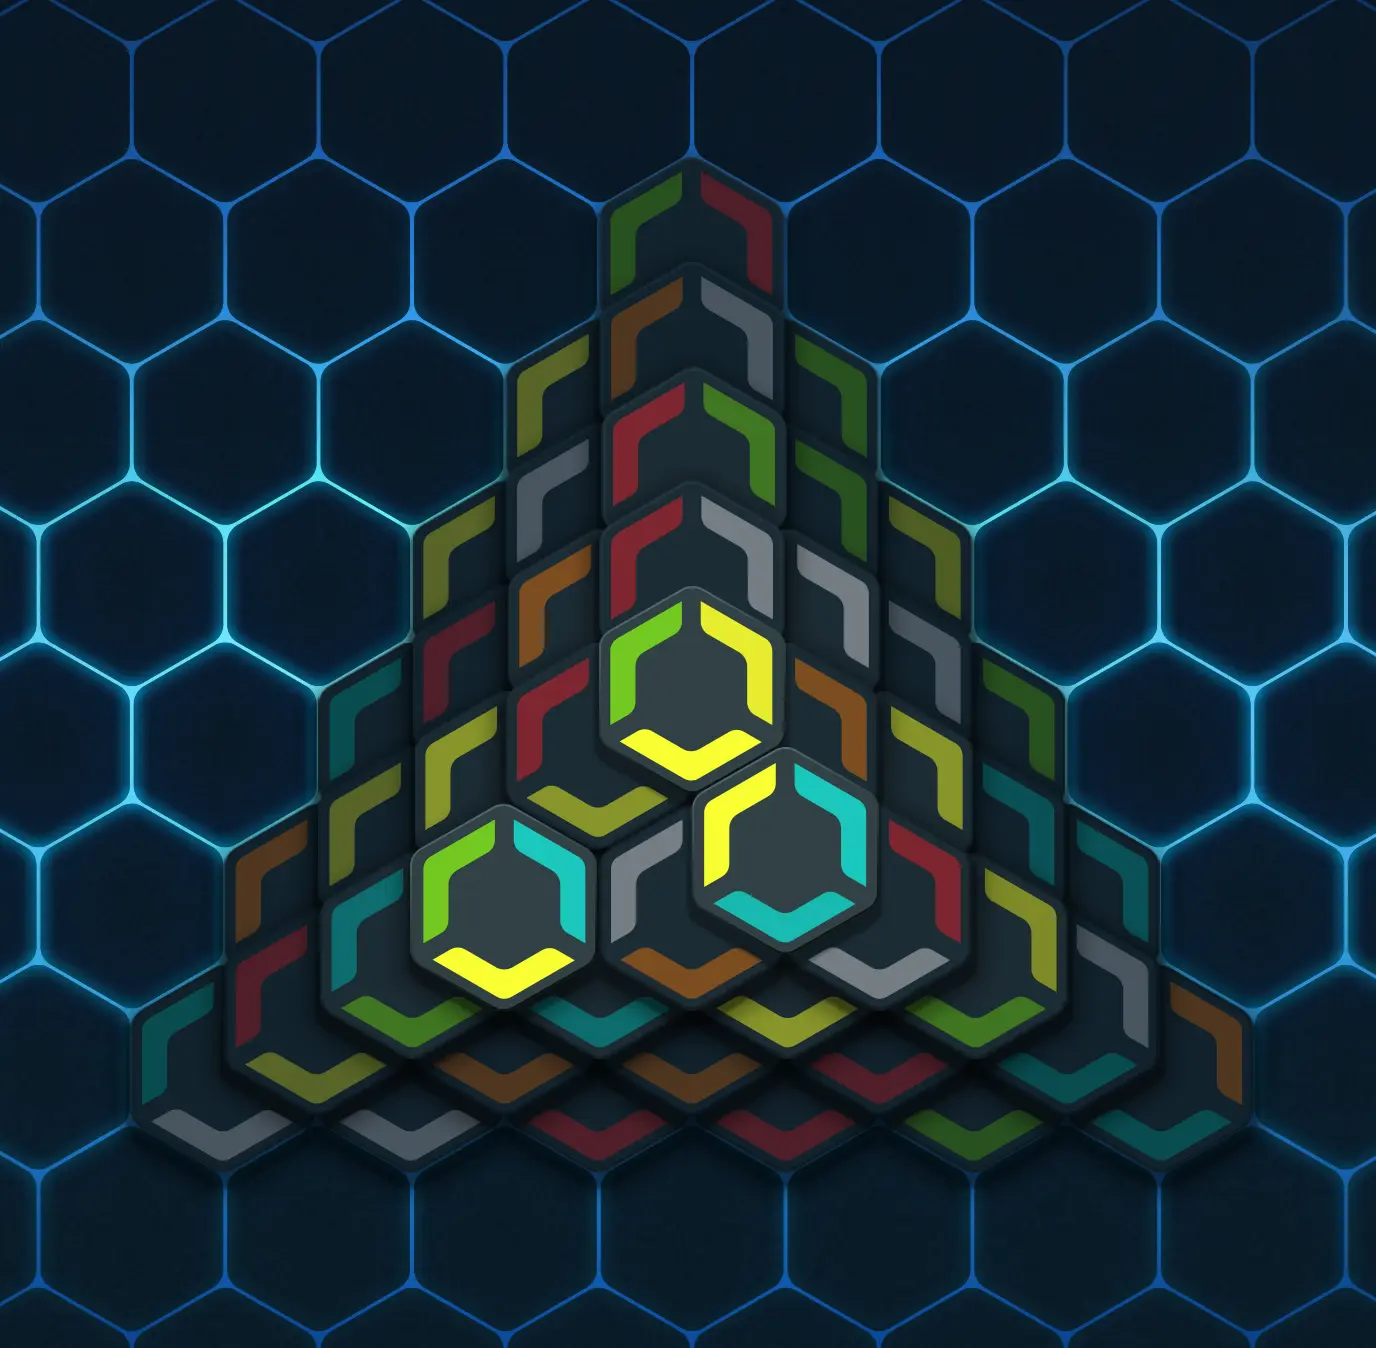
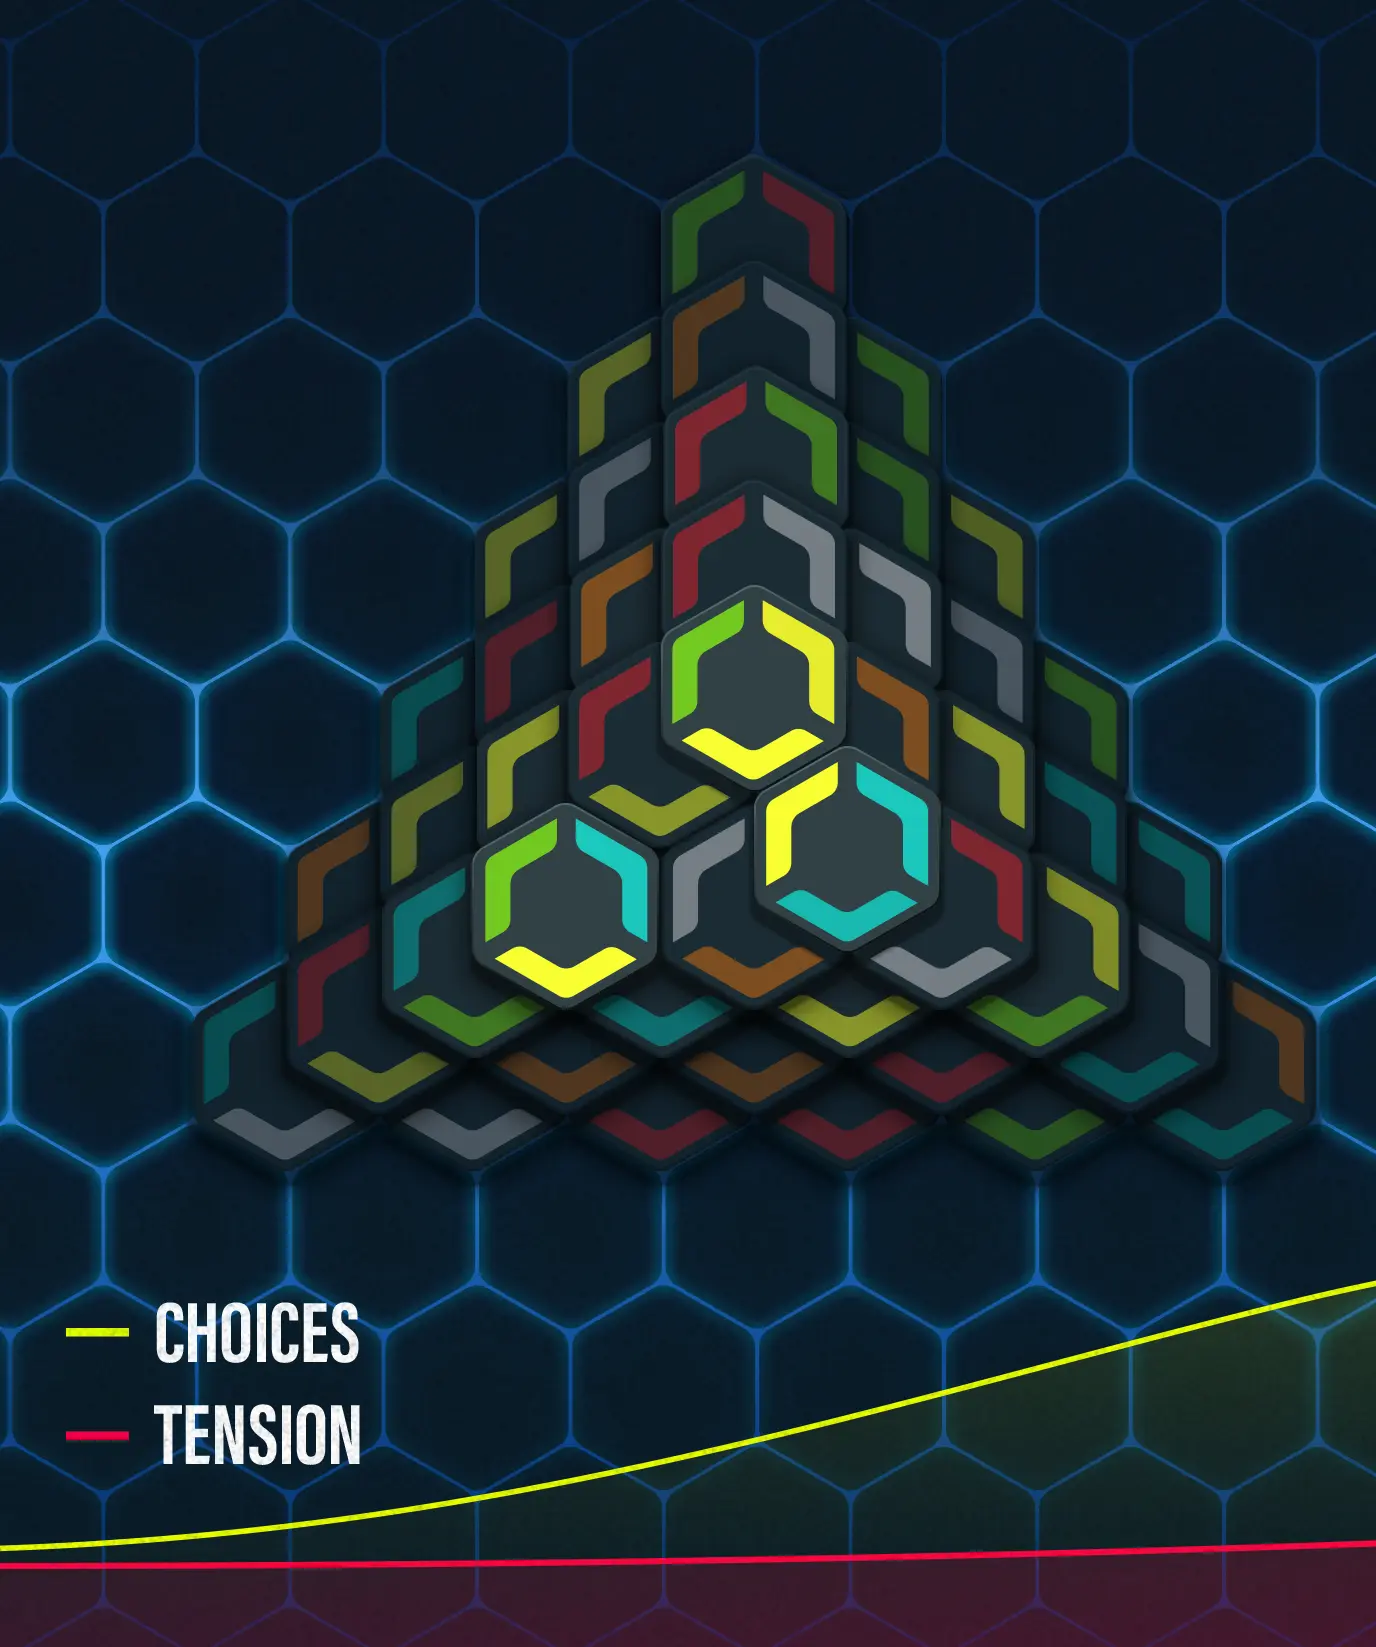
Level the tight/open/tight row; stop auto-height frames clipping their children
The board-state artwork was re-exported taller than the square boxes it was
being poured into, so cover was cutting the legend off the bottom. The boxes
now follow the artwork's shape, and object-position anchors each image to its
bottom edge so what little cover does trim comes off the empty hex background
at the top rather than the legend.

All three columns are 1fr again, so the boxes resolve to the same height and the
row sits level. Keeping the midgame one wider would have meant either giving it
a different shape — which crops the legend from the sides instead — or letting
it overhang the other two.

Also fixes a system-level bug this exposed. CaseStudyMedia's frame carries
overflow: hidden so cover can crop media to its aspect ratio. The --auto variant
drops the ratio but was still clipping, with nothing left to clip to, which
silently cut off anything a custom stage placed below its artwork. Here that was
the stage labels; a diagram with its own legend or footnote would have lost
those the same way. FeatureSection and SequenceSection both use --auto for a
children stage, so this affected every custom visual, not just Mesa's.

diff --git a/src/caseStudies/mesa/mesa.css b/src/caseStudies/mesa/mesa.css
@@ -2,12 +2,19 @@
    gutters, and typography come from the case-study system. */
 
 .mesa-arc {
-  /* The board-state images are 1376x1348 — square within a couple of pixels.
-     Every box matches that ratio, so `cover` never actually crops them. */
-  --mesa-arc-ratio: 1376 / 1348;
-  /* How much wider the midgame column is than the two either side of it. The
-     boxes are square, so this is the only thing making the middle one bigger. */
-  --mesa-arc-emphasis: 1.25fr;
+  /* The artwork is 1376x1647. The box is slightly shorter than that, so cover
+     trims a couple of percent — taken off the TOP, where there is only empty
+     hex background, because object-position below anchors the image to its
+     bottom. The legend along the bottom edge is never touched.
+     This is the dial for the section height: lower the second number to
+     shorten it further, up to the point where the pyramid apex starts to
+     clip. 1647 would be the untrimmed artwork. */
+  --mesa-arc-ratio: 1376 / 1610;
+  /* Relative width of the midgame column. All three boxes share one shape, so
+     width also sets height — at 1fr they come out identical, which is what
+     keeps the row level. Raising it makes the middle one bigger again, at the
+     cost of it overhanging the other two. */
+  --mesa-arc-emphasis: 1fr;
   /* Space between the three boxes, matched to the space either side of the
      trio — FeatureSection insets its stage by --cs-bleed-inset, so taking the
      gap from the same token keeps all four consistent if it ever changes. */
@@ -15,10 +22,10 @@
 
   display: grid;
   gap: var(--mesa-arc-gap);
-  /* Without this the three stages stretch to the height of the tallest —
-     the midgame one — which overrides the outer boxes' aspect-ratio and
-     re-crops their artwork taller than square. Each stage sizes to its own
-     content instead. */
+  /* Grid items stretch to the tallest sibling by default, which overrides a
+     box's aspect-ratio and re-crops its artwork. That is moot while every column
+     is the same width, but it is what breaks the moment --mesa-arc-emphasis is
+     raised again, so each stage sizes to its own content instead. */
   align-items: start;
   grid-template-columns:
     minmax(0, 1fr)
@@ -31,12 +38,17 @@
   gap: clamp(6px, 0.7vw, 12px);
 }
 
-/* The midgame box is bigger because its column is wider — it stays the same
-   shape as the other two, rather than being stretched taller. That keeps the
-   expand-and-contract read of the trio without cropping any of the artwork. */
+/* One shape for all three boxes. Because every column is the same width, they
+   resolve to the same height too, so the row is level and the labels line up. */
 .mesa-arc__box {
   position: relative;
   aspect-ratio: var(--mesa-arc-ratio);
+}
+
+/* Anchor the artwork to the bottom of its box, so the crop above comes off the
+   empty background at the top rather than the legend at the bottom. */
+.mesa-arc__box .cs-media__img {
+  object-position: bottom;
 }
 
 .mesa-arc__label {
@@ -49,7 +61,7 @@
 
 @media (max-width: 767.98px) {
   /* One column, so there is no width to emphasise with — all three render at
-     the same square size. */
+     the same size. */
   .mesa-arc {
     grid-template-columns: minmax(0, 1fr);
   }

diff --git a/src/caseStudies/system/caseStudy.css b/src/caseStudies/system/caseStudy.css
@@ -195,9 +195,13 @@
 }
 
 /* A frame whose height is set by its own children (custom diagrams, sequence
-   and feature slots) opts out of the aspect ratio entirely. */
+   and feature slots) opts out of the aspect ratio entirely — and with it, the
+   clipping. The overflow above exists to crop media to a ratio; with no ratio
+   there is nothing to crop to, and leaving it on silently cuts off whatever a
+   custom stage puts below its artwork (labels, legends, its own captions). */
 .cs-media__frame--auto {
   aspect-ratio: auto;
+  overflow: visible;
 }
 
 .cs-media__img {
